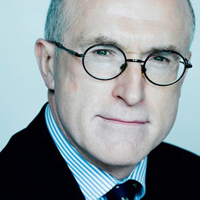
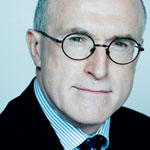
Homepage revision on About Us

diff --git a/css/style.css b/css/style.css
@@ -170,21 +170,22 @@ li a.active{
 
 .image-profile{
 	width:100%;
-	margin:40px 10px 0px 15px;
+	margin:40px 10px 0px 0px;
 }
 .image-cropper {
-    width: 195px;
-    height: 195px;
+    width: 145px;
+    height: 145px;
     position: relative;
     overflow: hidden;
     border-radius: 50%;
     border:2px solid #6a90c4;
 	float:right;
 }
+
 .profile-pic {
   display: inline;
   margin: 0 auto;
-  margin-left: -5%; //centers the image
+  margin-left: -5%; 
   width: auto;
 }
 
@@ -202,10 +203,12 @@ li a.active{
 	margin-bottom: 45px;
 }
 
-.about p{
+#about p{
 	font-family: 'Open Sans', sans-serif;
 	font-size:12px;
-	padding:0px 20px 0px 30px;
+	padding:0px 30px 0px 30px;
+	width:520px;
+	text-align:justify;
 }
 
 .about-img img{
@@ -237,11 +240,18 @@ li a.active{
 	background: #58DB93;
 }
 
-
 /*twitter timeline embed*/
 
 #twitter{
 	margin:20px 0px 20px 0px;
+}
+
+/*YouTube video homepagee*/
+#static_video{
+	border:1px solid #6a90c4;
+	margin:0px 0px 0px 30px;
+	width: 95%;
+	height:300px;
 }
 
 /*latest news/video section homepgae*/

diff --git a/index.html b/index.html
@@ -171,8 +171,8 @@
 						</div>
 						
 						<div class="col-sm-5">
+							<h2>Latest Video</h2>
 							<div id="static_video">
-								<h2>Latest Video</h2>
 							</div>
 							<!-- <script src="js/youtube.js"></script> -->
 						</div>
